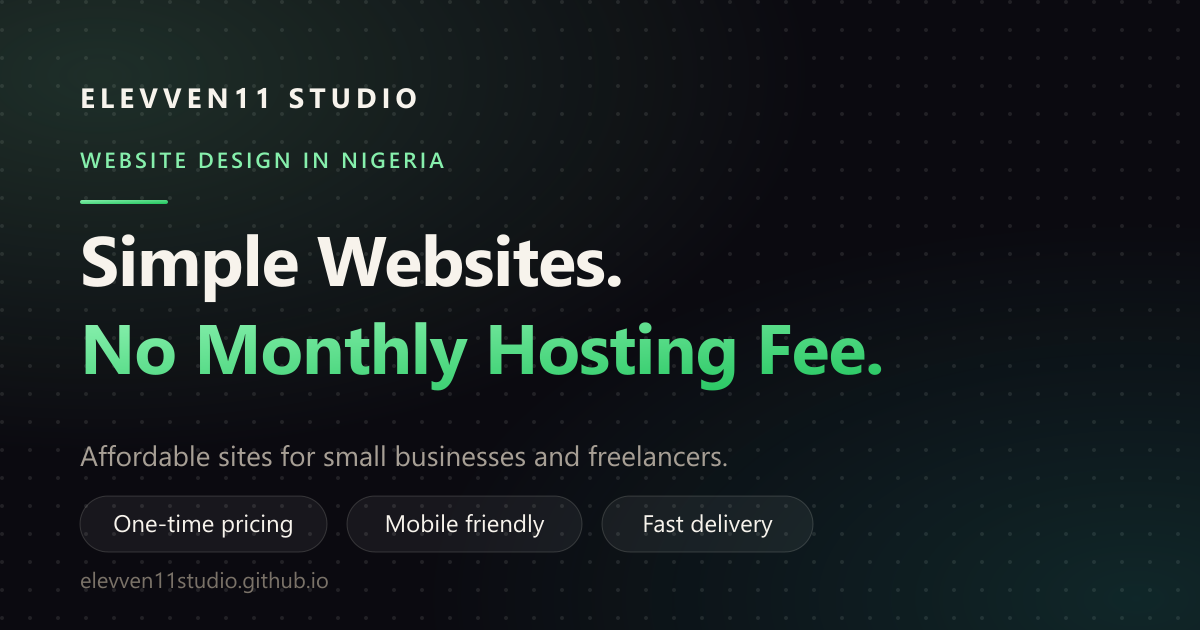
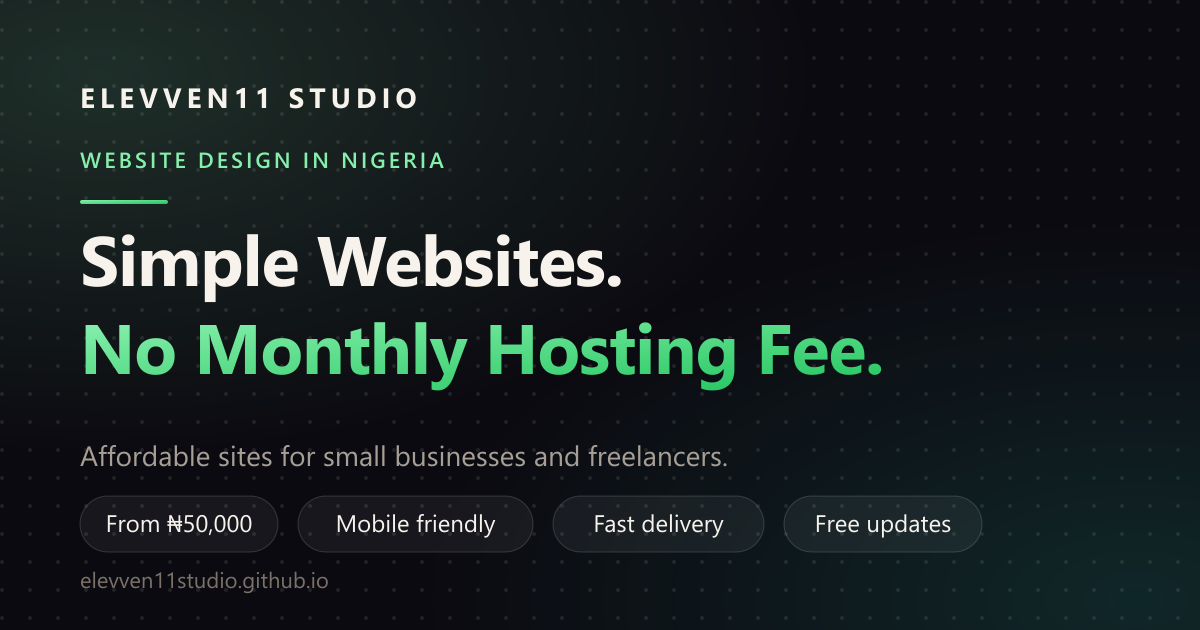
Refactor code structure for improved readability and maintainability

diff --git a/tools/generate-og-cards.js b/tools/generate-og-cards.js
@@ -1,8 +1,14 @@
 /**
- * Regenerates the nine per-page social cards in branding/og/.
+ * Regenerates the per-page social cards in branding/og/.
  *
- * Each main page gets its own 1200x630 og:image built from the site brand
- * tokens. Edit the PAGES map below when page copy or prices change, then:
+ * Each main page gets two og:image variants built from the same brand tokens
+ * and copy: a 1200x630 landscape card (<slug>.png) for platforms that show
+ * the image as-is, and a 1080x1080 square card (<slug>-square.png) for the
+ * platforms that box or crop a landscape og:image down to near-square on
+ * mobile - the square variant is designed for that shape instead of being a
+ * crop of the landscape one, so nothing gets clipped mid-word.
+ *
+ * Edit the PAGES map below when page copy or prices change, then:
  *
  *   cd tools && npm install && npm run og-cards
  *
@@ -77,11 +83,105 @@ function card({ eyebrow, lines, sub, pills = [], accent = 'neon' }) {
 </svg>`;
 }
 
+// Square 1080x1080 variant: this is the shape mobile apps actually favour for
+// a link preview (WhatsApp/iMessage/Slack tend to crop or box a landscape
+// og:image down to something near-square, which was clipping the headline
+// mid-word). This card is purpose-built square instead of a crop, and the
+// whole text block is vertically centred so it reads as one balanced mobile
+// share image rather than a landscape card with the bottom third empty.
+function squareCard({ eyebrow, lines, sub, pills = [], accent = 'neon' }) {
+  const SIZE = 1080;
+  const PAD = 72;
+  const MAXW = SIZE - PAD * 2;
+  const grad = accent === 'gold'
+    ? '<stop offset="0%" stop-color="#f0c866"/><stop offset="100%" stop-color="#c99a2e"/>'
+    : '<stop offset="0%" stop-color="#86efac"/><stop offset="100%" stop-color="#22c55e"/>';
+  const eyebrowFill = accent === 'gold' ? '#f0c866' : '#86efac';
+
+  const LOGO_H = 56;      // logo baseline to eyebrow baseline
+  const EYEBROW_H = 40;   // eyebrow baseline to accent bar
+  const BAR_TO_HEAD = 86; // accent bar to first headline baseline
+  const LINE_H = 76;      // headline line height (square runs a touch tighter than landscape)
+  const HEAD_TO_SUB = 66;
+  const SUB_TO_PILLS = 46;
+  const PILL_ROW_H = 68;  // pill row pitch (56 tall + 12 gap)
+
+  // Pills wrap onto multiple rows here (square is narrower than the landscape
+  // card), computed up front so the total block height - and therefore the
+  // vertical centring - accounts for however many rows that produces.
+  const pillRows = [[]];
+  let rowW = 0;
+  pills.forEach((p) => {
+    const w = pillW(p);
+    if (rowW && rowW + 20 + w > MAXW) { pillRows.push([]); rowW = 0; }
+    pillRows[pillRows.length - 1].push({ text: p, w });
+    rowW += (rowW ? 20 : 0) + w;
+  });
+  const hasPills = pills.length > 0;
+
+  const headlineBlockH = (lines.length - 1) * LINE_H;
+  const blockH = LOGO_H + EYEBROW_H + BAR_TO_HEAD + headlineBlockH + HEAD_TO_SUB + SUB_TO_PILLS
+    + (hasPills ? pillRows.length * PILL_ROW_H : 0);
+  let y = Math.round((SIZE - blockH) / 2);
+
+  const logoY = y; y += LOGO_H;
+  const eyebrowY = y; y += EYEBROW_H;
+  const barY = y - 16; y += BAR_TO_HEAD - 16;
+  const headStartY = y; y += headlineBlockH;
+  const subY = y + HEAD_TO_SUB;
+  const firstPillTop = subY + SUB_TO_PILLS - 40;
+
+  const headline = lines.map((l, i) =>
+    `<text x="${PAD}" y="${headStartY + i * LINE_H}" fill="${i === lines.length - 1 ? 'url(#accent)' : '#f7f3ec'}" font-size="60" font-weight="700" letter-spacing="-1">${esc(l)}</text>`
+  ).join('');
+
+  let pillSvg = '';
+  pillRows.forEach((row, i) => {
+    const rowTop = firstPillTop + i * PILL_ROW_H;
+    let x = PAD;
+    row.forEach(({ text, w }) => {
+      pillSvg += `<g><rect x="${x}" y="${rowTop}" width="${w}" height="56" rx="28" fill="rgba(247,243,236,0.06)" stroke="rgba(247,243,236,0.16)"/>` +
+        `<text x="${x + w / 2}" y="${rowTop + 36}" fill="#f7f3ec" font-size="24" text-anchor="middle">${esc(text)}</text></g>`;
+      x += w + 20;
+    });
+  });
+
+  return `<svg xmlns="http://www.w3.org/2000/svg" width="${SIZE}" height="${SIZE}" viewBox="0 0 ${SIZE} ${SIZE}">
+  <defs>
+    <linearGradient id="accent" x1="0%" y1="0%" x2="100%" y2="100%">${grad}</linearGradient>
+    <radialGradient id="glow1" cx="10%" cy="8%" r="55%">
+      <stop offset="0%" stop-color="${eyebrowFill}" stop-opacity="0.18"/>
+      <stop offset="100%" stop-color="${eyebrowFill}" stop-opacity="0"/>
+    </radialGradient>
+    <radialGradient id="glow2" cx="90%" cy="96%" r="55%">
+      <stop offset="0%" stop-color="#2dd4bf" stop-opacity="0.16"/>
+      <stop offset="100%" stop-color="#2dd4bf" stop-opacity="0"/>
+    </radialGradient>
+    <pattern id="dots" width="28" height="28" patternUnits="userSpaceOnUse">
+      <circle cx="2" cy="2" r="2" fill="rgba(247,243,236,0.10)"/>
+    </pattern>
+  </defs>
+  <rect width="${SIZE}" height="${SIZE}" fill="#0b0a10"/>
+  <rect width="${SIZE}" height="${SIZE}" fill="url(#dots)"/>
+  <rect width="${SIZE}" height="${SIZE}" fill="url(#glow1)"/>
+  <rect width="${SIZE}" height="${SIZE}" fill="url(#glow2)"/>
+  <g font-family="Segoe UI, Arial, sans-serif">
+    <text x="${PAD}" y="${logoY}" fill="#f7f3ec" font-size="26" font-weight="700" letter-spacing="4">ELEVVEN11 STUDIO</text>
+    <text x="${PAD}" y="${eyebrowY}" fill="${eyebrowFill}" font-size="20" font-weight="600" letter-spacing="3">${esc(eyebrow)}</text>
+    <rect x="${PAD}" y="${barY}" width="80" height="4" rx="2" fill="url(#accent)"/>
+    ${headline}
+    <text x="${PAD}" y="${subY}" fill="#a79f95" font-size="26">${esc(sub)}</text>
+    ${pillSvg}
+    <text x="${PAD}" y="${SIZE - 48}" fill="#7a7268" font-size="22">elevven11studio.github.io</text>
+  </g>
+</svg>`;
+}
+
 const PAGES = {
   'home': { page: 'index.html', alt: 'Elevven11 Studio - affordable website design in Nigeria',
     eyebrow: 'WEBSITE DESIGN IN NIGERIA', lines: ['Simple Websites.', 'No Monthly Hosting Fee.'],
     sub: 'Affordable sites for small businesses and freelancers.',
-    pills: ['One-time pricing', 'Mobile friendly', 'Fast delivery'] },
+    pills: ['From ₦50,000', 'Mobile friendly', 'Fast delivery', 'Free updates'] },
 
   'pricing': { page: 'pricing/index.html', alt: 'Elevven11 Studio pricing - Starter, Plus and Custom packages',
     eyebrow: 'PRICING', lines: ['One-Time Pricing.', 'No Monthly Fees.'],
@@ -91,12 +191,12 @@ const PAGES = {
   'agents': { page: 'agents/index.html', alt: 'Become an Elevven11 Studio referral agent and earn commission',
     eyebrow: 'REFERRAL PROGRAMME', accent: 'gold', lines: ['Refer Someone.', 'Earn a Commission.'],
     sub: 'No website skills needed. Get paid when they buy.',
-    pills: ['Starter \u20a610,000', 'Plus \u20a615,000'] },
+    pills: ['Starter \u20a610,000', 'Plus \u20a615,000', 'No skills needed'] },
 
   'examples': { page: 'examples/index.html', alt: 'Elevven11 Studio website template examples',
     eyebrow: 'TEMPLATE EXAMPLES', lines: ['14 Templates.', '42 Live Demos.'],
     sub: 'Restaurants, salons, churches, schools, and more.',
-    pills: ['Mobile friendly', 'Ready to customise'] },
+    pills: ['Mobile friendly', 'Ready to customise', '42 live demos'] },
 
   'how-it-works': { page: 'how-it-works/index.html', alt: 'How Elevven11 Studio builds and delivers your website',
     eyebrow: 'HOW IT WORKS', lines: ['From Idea to', 'Live Website.'],
@@ -106,17 +206,17 @@ const PAGES = {
   'get-started': { page: 'get-started/index.html', alt: 'Get your website started with Elevven11 Studio',
     eyebrow: 'GET STARTED', lines: ['Ready to Get', 'Your Website Online?'],
     sub: "Tell us what you need and we'll take it from there.",
-    pills: ['From \u20a650,000', 'Fast delivery'] },
+    pills: ['From \u20a650,000', 'Fast delivery', 'WhatsApp or email'] },
 
   'faq': { page: 'faq/index.html', alt: 'Frequently asked questions about Elevven11 Studio websites',
     eyebrow: 'FAQ', lines: ['Common Questions,', 'Answered.'],
     sub: 'Hosting, pricing, updates, domains, and delivery.',
-    pills: ['No monthly hosting fee', 'Free update period'] },
+    pills: ['No monthly hosting fee', 'Free update period', 'Custom domains ok'] },
 
   'contact': { page: 'contact/index.html', alt: 'Contact Elevven11 Studio about your website project',
     eyebrow: 'CONTACT', lines: ["Let's Talk About", 'Your Website.'],
     sub: 'Reach us on WhatsApp or by email. We reply quickly.',
-    pills: ['WhatsApp', 'Email'] },
+    pills: ['WhatsApp', 'Email', 'Fast replies'] },
 
   'terms': { page: 'terms/index.html', alt: 'Elevven11 Studio terms of service',
     eyebrow: 'TERMS OF SERVICE', lines: ['The Terms', 'We Work To.'],
@@ -133,5 +233,9 @@ const PAGES = {
     const file = path.join(OUT, slug + '.png');
     await sharp(Buffer.from(card(cfg))).png({ compressionLevel: 9 }).toFile(file);
     console.log(slug.padEnd(14), (fs.statSync(file).size / 1024).toFixed(0) + 'K');
+
+    const squareFile = path.join(OUT, slug + '-square.png');
+    await sharp(Buffer.from(squareCard(cfg))).png({ compressionLevel: 9 }).toFile(squareFile);
+    console.log((slug + '-square').padEnd(14), (fs.statSync(squareFile).size / 1024).toFixed(0) + 'K');
   }
 })();

diff --git a/contact/index.html b/contact/index.html
@@ -20,6 +20,13 @@
 	<meta property="og:image:width" content="1200" />
 	<meta property="og:image:height" content="630" />
 	<meta property="og:image:alt" content="Contact Elevven11 Studio about your website project" />
+	<!-- Square alternate: platforms whose share dialog lets you pick between
+	     linked images (Facebook, LinkedIn) can offer this one instead of a
+	     landscape crop for mobile-style posts. -->
+	<meta property="og:image" content="https://elevven11studio.github.io/branding/og/contact-square.png" />
+	<meta property="og:image:width" content="1080" />
+	<meta property="og:image:height" content="1080" />
+	<meta property="og:image:alt" content="Contact Elevven11 Studio about your website project" />
 	<meta name="twitter:card" content="summary_large_image" />
 	<meta name="twitter:title" content="Contact - Elevven11 Studio" />
 	<meta name="twitter:description" content="Contact Elevven11 Studio about your website. Reach us on WhatsApp, by email or through our form, and we reply quickly. Serving businesses in Nigeria." />

diff --git a/get-started/index.html b/get-started/index.html
@@ -20,6 +20,13 @@
 	<meta property="og:image:width" content="1200" />
 	<meta property="og:image:height" content="630" />
 	<meta property="og:image:alt" content="Get your website started with Elevven11 Studio" />
+	<!-- Square alternate: platforms whose share dialog lets you pick between
+	     linked images (Facebook, LinkedIn) can offer this one instead of a
+	     landscape crop for mobile-style posts. -->
+	<meta property="og:image" content="https://elevven11studio.github.io/branding/og/get-started-square.png" />
+	<meta property="og:image:width" content="1080" />
+	<meta property="og:image:height" content="1080" />
+	<meta property="og:image:alt" content="Get your website started with Elevven11 Studio" />
 	<meta name="twitter:card" content="summary_large_image" />
 	<meta name="twitter:title" content="Get Started - Elevven11 Studio" />
 	<meta name="twitter:description" content="Tell Elevven11 Studio what you need and we'll start your website. Send your details by WhatsApp or Google Form. Packages from ₦50,000, one-time." />

diff --git a/agents/index.html b/agents/index.html
@@ -20,6 +20,13 @@
 	<meta property="og:image:width" content="1200" />
 	<meta property="og:image:height" content="630" />
 	<meta property="og:image:alt" content="Become an Elevven11 Studio referral agent and earn commission" />
+	<!-- Square alternate: platforms whose share dialog lets you pick between
+	     linked images (Facebook, LinkedIn) can offer this one instead of a
+	     landscape crop for mobile-style posts. -->
+	<meta property="og:image" content="https://elevven11studio.github.io/branding/og/agents-square.png" />
+	<meta property="og:image:width" content="1080" />
+	<meta property="og:image:height" content="1080" />
+	<meta property="og:image:alt" content="Become an Elevven11 Studio referral agent and earn commission" />
 	<meta name="twitter:card" content="summary_large_image" />
 	<meta name="twitter:title" content="Become a Referral Agent - Elevven11 Studio" />
 	<meta name="twitter:description" content="Earn a commission by referring people who need a website to Elevven11 Studio. No technical skills required." />

diff --git a/terms/index.html b/terms/index.html
@@ -20,6 +20,13 @@
 	<meta property="og:image:width" content="1200" />
 	<meta property="og:image:height" content="630" />
 	<meta property="og:image:alt" content="Elevven11 Studio terms of service" />
+	<!-- Square alternate: platforms whose share dialog lets you pick between
+	     linked images (Facebook, LinkedIn) can offer this one instead of a
+	     landscape crop for mobile-style posts. -->
+	<meta property="og:image" content="https://elevven11studio.github.io/branding/og/terms-square.png" />
+	<meta property="og:image:width" content="1080" />
+	<meta property="og:image:height" content="1080" />
+	<meta property="og:image:alt" content="Elevven11 Studio terms of service" />
 	<meta name="twitter:card" content="summary_large_image" />
 	<meta name="twitter:title" content="Terms of Service - Elevven11 Studio" />
 	<meta name="twitter:description" content="The terms covering Elevven11 Studio website packages: pricing, payment, what you provide, the free update period, hosting, ownership and the referral programme." />

diff --git a/pricing/index.html b/pricing/index.html
@@ -20,6 +20,13 @@
 	<meta property="og:image:width" content="1200" />
 	<meta property="og:image:height" content="630" />
 	<meta property="og:image:alt" content="Elevven11 Studio pricing - Starter, Plus and Custom packages" />
+	<!-- Square alternate: platforms whose share dialog lets you pick between
+	     linked images (Facebook, LinkedIn) can offer this one instead of a
+	     landscape crop for mobile-style posts. -->
+	<meta property="og:image" content="https://elevven11studio.github.io/branding/og/pricing-square.png" />
+	<meta property="og:image:width" content="1080" />
+	<meta property="og:image:height" content="1080" />
+	<meta property="og:image:alt" content="Elevven11 Studio pricing - Starter, Plus and Custom packages" />
 	<meta name="twitter:card" content="summary_large_image" />
 	<meta name="twitter:title" content="Pricing - Elevven11 Studio" />
 	<meta name="twitter:description" content="Elevven11 Studio pricing: Starter, Plus, and Custom website packages with clear free-update periods." />

diff --git a/how-it-works/index.html b/how-it-works/index.html
@@ -20,6 +20,13 @@
 	<meta property="og:image:width" content="1200" />
 	<meta property="og:image:height" content="630" />
 	<meta property="og:image:alt" content="How Elevven11 Studio builds and delivers your website" />
+	<!-- Square alternate: platforms whose share dialog lets you pick between
+	     linked images (Facebook, LinkedIn) can offer this one instead of a
+	     landscape crop for mobile-style posts. -->
+	<meta property="og:image" content="https://elevven11studio.github.io/branding/og/how-it-works-square.png" />
+	<meta property="og:image:width" content="1080" />
+	<meta property="og:image:height" content="1080" />
+	<meta property="og:image:alt" content="How Elevven11 Studio builds and delivers your website" />
 	<meta name="twitter:card" content="summary_large_image" />
 	<meta name="twitter:title" content="How It Works - Elevven11 Studio" />
 	<meta name="twitter:description" content="How Elevven11 Studio builds and delivers your website, and how our free GitHub Pages hosting works." />

diff --git a/examples/index.html b/examples/index.html
@@ -20,6 +20,13 @@
 	<meta property="og:image:width" content="1200" />
 	<meta property="og:image:height" content="630" />
 	<meta property="og:image:alt" content="Elevven11 Studio website template examples" />
+	<!-- Square alternate: platforms whose share dialog lets you pick between
+	     linked images (Facebook, LinkedIn) can offer this one instead of a
+	     landscape crop for mobile-style posts. -->
+	<meta property="og:image" content="https://elevven11studio.github.io/branding/og/examples-square.png" />
+	<meta property="og:image:width" content="1080" />
+	<meta property="og:image:height" content="1080" />
+	<meta property="og:image:alt" content="Elevven11 Studio website template examples" />
 	<meta name="twitter:card" content="summary_large_image" />
 	<meta name="twitter:title" content="Examples - Elevven11 Studio" />
 	<meta name="twitter:description" content="Website templates and examples Elevven11 Studio can build from: personal portfolios, freelancers, small businesses, and more." />

diff --git a/privacy/index.html b/privacy/index.html
@@ -20,6 +20,13 @@
 	<meta property="og:image:width" content="1200" />
 	<meta property="og:image:height" content="630" />
 	<meta property="og:image:alt" content="Elevven11 Studio privacy policy" />
+	<!-- Square alternate: platforms whose share dialog lets you pick between
+	     linked images (Facebook, LinkedIn) can offer this one instead of a
+	     landscape crop for mobile-style posts. -->
+	<meta property="og:image" content="https://elevven11studio.github.io/branding/og/privacy-square.png" />
+	<meta property="og:image:width" content="1080" />
+	<meta property="og:image:height" content="1080" />
+	<meta property="og:image:alt" content="Elevven11 Studio privacy policy" />
 	<meta name="twitter:card" content="summary_large_image" />
 	<meta name="twitter:title" content="Privacy - Elevven11 Studio" />
 	<meta name="twitter:description" content="How Elevven11 Studio collects, uses and protects the information you share when you request a website or join the referral agent programme." />

diff --git a/faq/index.html b/faq/index.html
@@ -20,6 +20,13 @@
 	<meta property="og:image:width" content="1200" />
 	<meta property="og:image:height" content="630" />
 	<meta property="og:image:alt" content="Frequently asked questions about Elevven11 Studio websites" />
+	<!-- Square alternate: platforms whose share dialog lets you pick between
+	     linked images (Facebook, LinkedIn) can offer this one instead of a
+	     landscape crop for mobile-style posts. -->
+	<meta property="og:image" content="https://elevven11studio.github.io/branding/og/faq-square.png" />
+	<meta property="og:image:width" content="1080" />
+	<meta property="og:image:height" content="1080" />
+	<meta property="og:image:alt" content="Frequently asked questions about Elevven11 Studio websites" />
 	<meta name="twitter:card" content="summary_large_image" />
 	<meta name="twitter:title" content="FAQ - Elevven11 Studio" />
 	<meta name="twitter:description" content="Frequently asked questions about Elevven11 Studio websites, hosting, pricing, and updates." />

diff --git a/index.html b/index.html
@@ -26,6 +26,13 @@
 	<meta property="og:image:width" content="1200" />
 	<meta property="og:image:height" content="630" />
 	<meta property="og:image:alt" content="Elevven11 Studio - affordable website design in Nigeria" />
+	<!-- Square alternate: platforms whose share dialog lets you pick between
+	     linked images (Facebook, LinkedIn) can offer this one instead of a
+	     landscape crop for mobile-style posts. -->
+	<meta property="og:image" content="https://elevven11studio.github.io/branding/og/home-square.png" />
+	<meta property="og:image:width" content="1080" />
+	<meta property="og:image:height" content="1080" />
+	<meta property="og:image:alt" content="Elevven11 Studio - affordable website design in Nigeria" />
 	<meta name="twitter:card" content="summary_large_image" />
 	<meta name="twitter:title" content="Affordable Website Design in Nigeria | Elevven11 Studio" />
 	<meta name="twitter:description"
